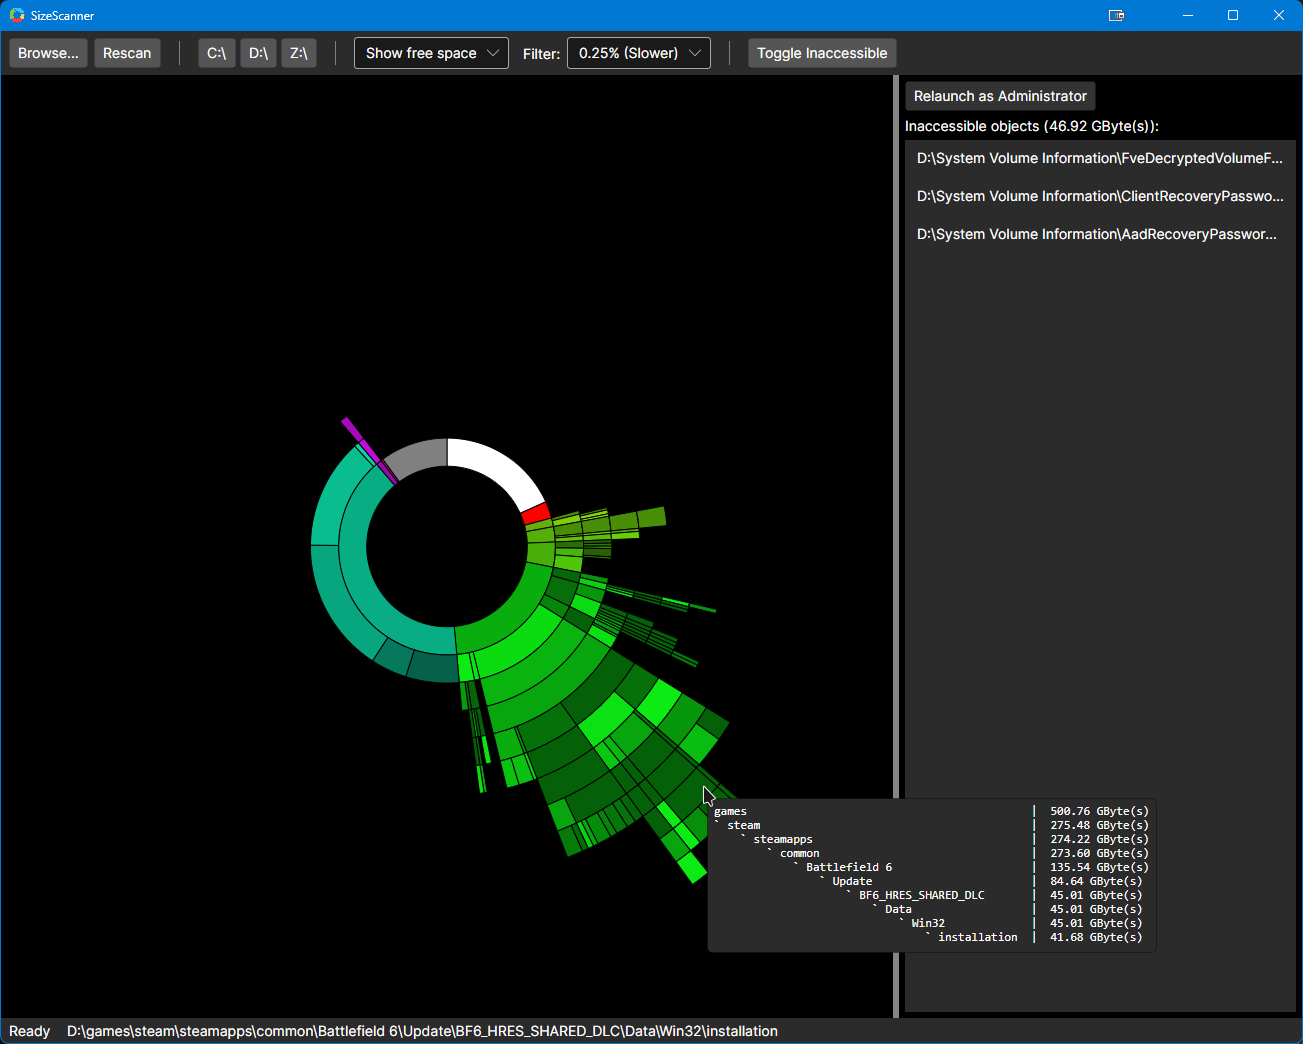
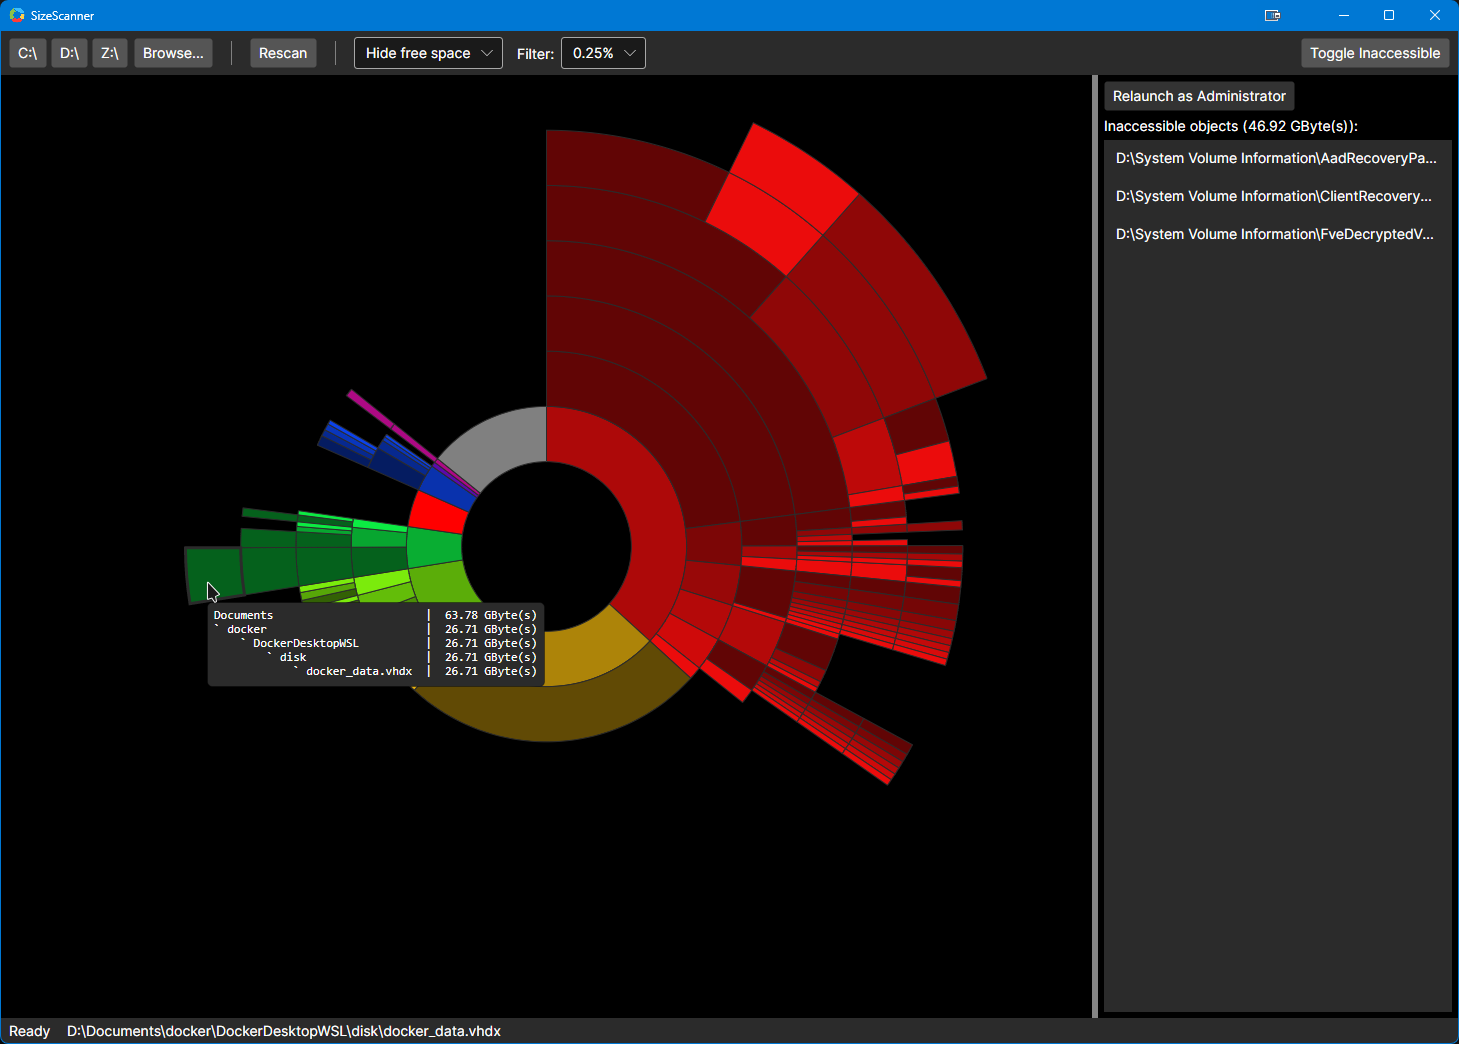
update readme, main image and button layout

diff --git a/AGENTS.md b/AGENTS.md
@@ -25,7 +25,7 @@ Dependency flow: UI/Console/Tests → `ScannerCore`. Central package versions li
 ## Windows / scanning specifics
 
 - **Platform**: x86/x64 AnyCPU; requires Windows APIs (`kernel32.dll`, `ntdll.dll`). Not cross-platform. Requires a Windows version supported by .NET 10.
-- **Size mode**: `ScanDrive` uses allocation size; `ScanDirectory` uses logical file size (`useAllocationSize` flag in `ScanUnitInternal`).
+- **Size mode**: drive scans use allocation size, directory scans use logical file size; `isDriveScan` flows from `DriveScanner` into `DirectoryScanner`'s `preferAllocatedSize` (allocation size vs `EndOfFile`).
 - **Progress**: `IProgress<ScanProgress>` callbacks from `DriveScanner` (throttled to 300 ms). UI wires `Progress<ScanProgress>` to the status bar and progress bar.
 - **Cancellation**: Both `ScanDrive` and `ScanDirectory` accept `CancellationToken`.
 - **Parallelism**: only top-level directory fan-out is parallel, and only when `VolumeParallelismPolicy` detects no seek penalty (SSD/NVMe). HDDs and unknown volumes stay sequential.
@@ -52,6 +52,7 @@ dotnet publish .\SizeScanner.Avalonia\SizeScanner.Avalonia.csproj -c Release -r 
 - `Avalonia`, `Avalonia.Desktop`, `Avalonia.Themes.Fluent`, `Avalonia.Fonts.Inter` — Avalonia UI
 - `CommunityToolkit.Mvvm`, `Microsoft.Extensions.DependencyInjection` — MVVM and DI
 - `Spectre.Console` — console harness output only
+- `MinVer` — Git tag-based assembly versioning (`v*` tags, `MinVerTagPrefix=v`)
 - `xunit.v3`, `Microsoft.NET.Test.Sdk`, `coverlet.collector` — test projects
 
 ## CI and release
@@ -65,7 +66,7 @@ Both platforms: restore/build `SizeScanner.slnx` (Release), run `ScannerCore.Tes
 
 ## Conventions when editing
 
-- Keep P/Invoke and native structs inside `DirectoryScanner` — do not scatter Win32 calls into UI.
+- Keep P/Invoke and native structs in `ScannerCore` (`DirectoryScanner` enumeration, `VolumeParallelismPolicy` seek-penalty detection) — never call Win32 from the UI.
 - Avalonia UI lives in `SizeScanner.Avalonia/`; keep platform/IO behind interfaces in `Abstractions/` with Windows implementations in `Services/`. Chart building belongs in `Charting/SunburstChartBuilder.cs`; view-models in `ViewModels/`.
 - Settings persist to `%AppData%\SizeScanner\settings.avalonia.json` via `JsonSettingsStore` and `Models/UserSettings.cs`.
 - The application must stay **native AoT and trimming compatible** (`PublishAot`, `PublishTrimmed`, `IsAotCompatible`). Avoid reflection/dynamic activation patterns unless they are explicitly annotated and tested with publish.
@@ -78,6 +79,7 @@ Both platforms: restore/build `SizeScanner.slnx` (Release), run `ScannerCore.Tes
 
 - `ScannerCore/DirectoryScanner.cs` — symlink/offline handling, native enumeration
 - `ScannerCore/DirectoryWalkEngine.cs` — scan tree walk, SSD-only top-level parallelism
+- `ScannerCore/VolumeParallelismPolicy.cs` — P/Invoke seek-penalty detection gating parallelism
 - `ScannerCore/DriveScanner.cs` — scan orchestration, progress, inaccessible tracking
 - `ScannerCore/DriveScanMetadata.cs` — synthetic drive scan entry names/accessors/insertion
 - `ScannerCore/ScanProgress.cs` — progress report record for `IProgress`

diff --git a/README.md b/README.md
@@ -1,8 +1,8 @@
 # SizeScanner
 
-A Windows disk-usage visualizer inspired by [Steffen Gerlach's Scanner](http://www.steffengerlach.de/freeware/) and [@AgentMC SizeScanner](https://github.com/AgentMC/SizeScanner).
+A FAST(!) Windows disk-usage visualizer inspired by [Steffen Gerlach's Scanner](http://www.steffengerlach.de/freeware/) and [@AgentMC SizeScanner](https://github.com/AgentMC/SizeScanner).
 
-Pick a drive or folder, wait for the scan, and explore where space goes through nested doughnut charts. Hover for names and sizes; right-click a slice to open it in Explorer or delete it.
+With SizeScanner you can scan any drive or folder with blazing speed, vizualize the result using the sunburst chart and delete the outliers easily.
 
 ![](https://raw.githubusercontent.com/xumix/SizeScanner/master/Img/main_window.png)
 
@@ -28,8 +28,6 @@ dotnet restore SizeScanner.slnx
 dotnet build SizeScanner.slnx -c Debug
 dotnet run --project .\SizeScanner.Avalonia\SizeScanner.Avalonia.csproj
 ```
-
-When the window opens, click a drive letter in the toolbar (for example `C:\`) or **Browse...** to pick a folder, then wait for the progress bar to finish.
 
 ### Console harness (for development purposes)
 